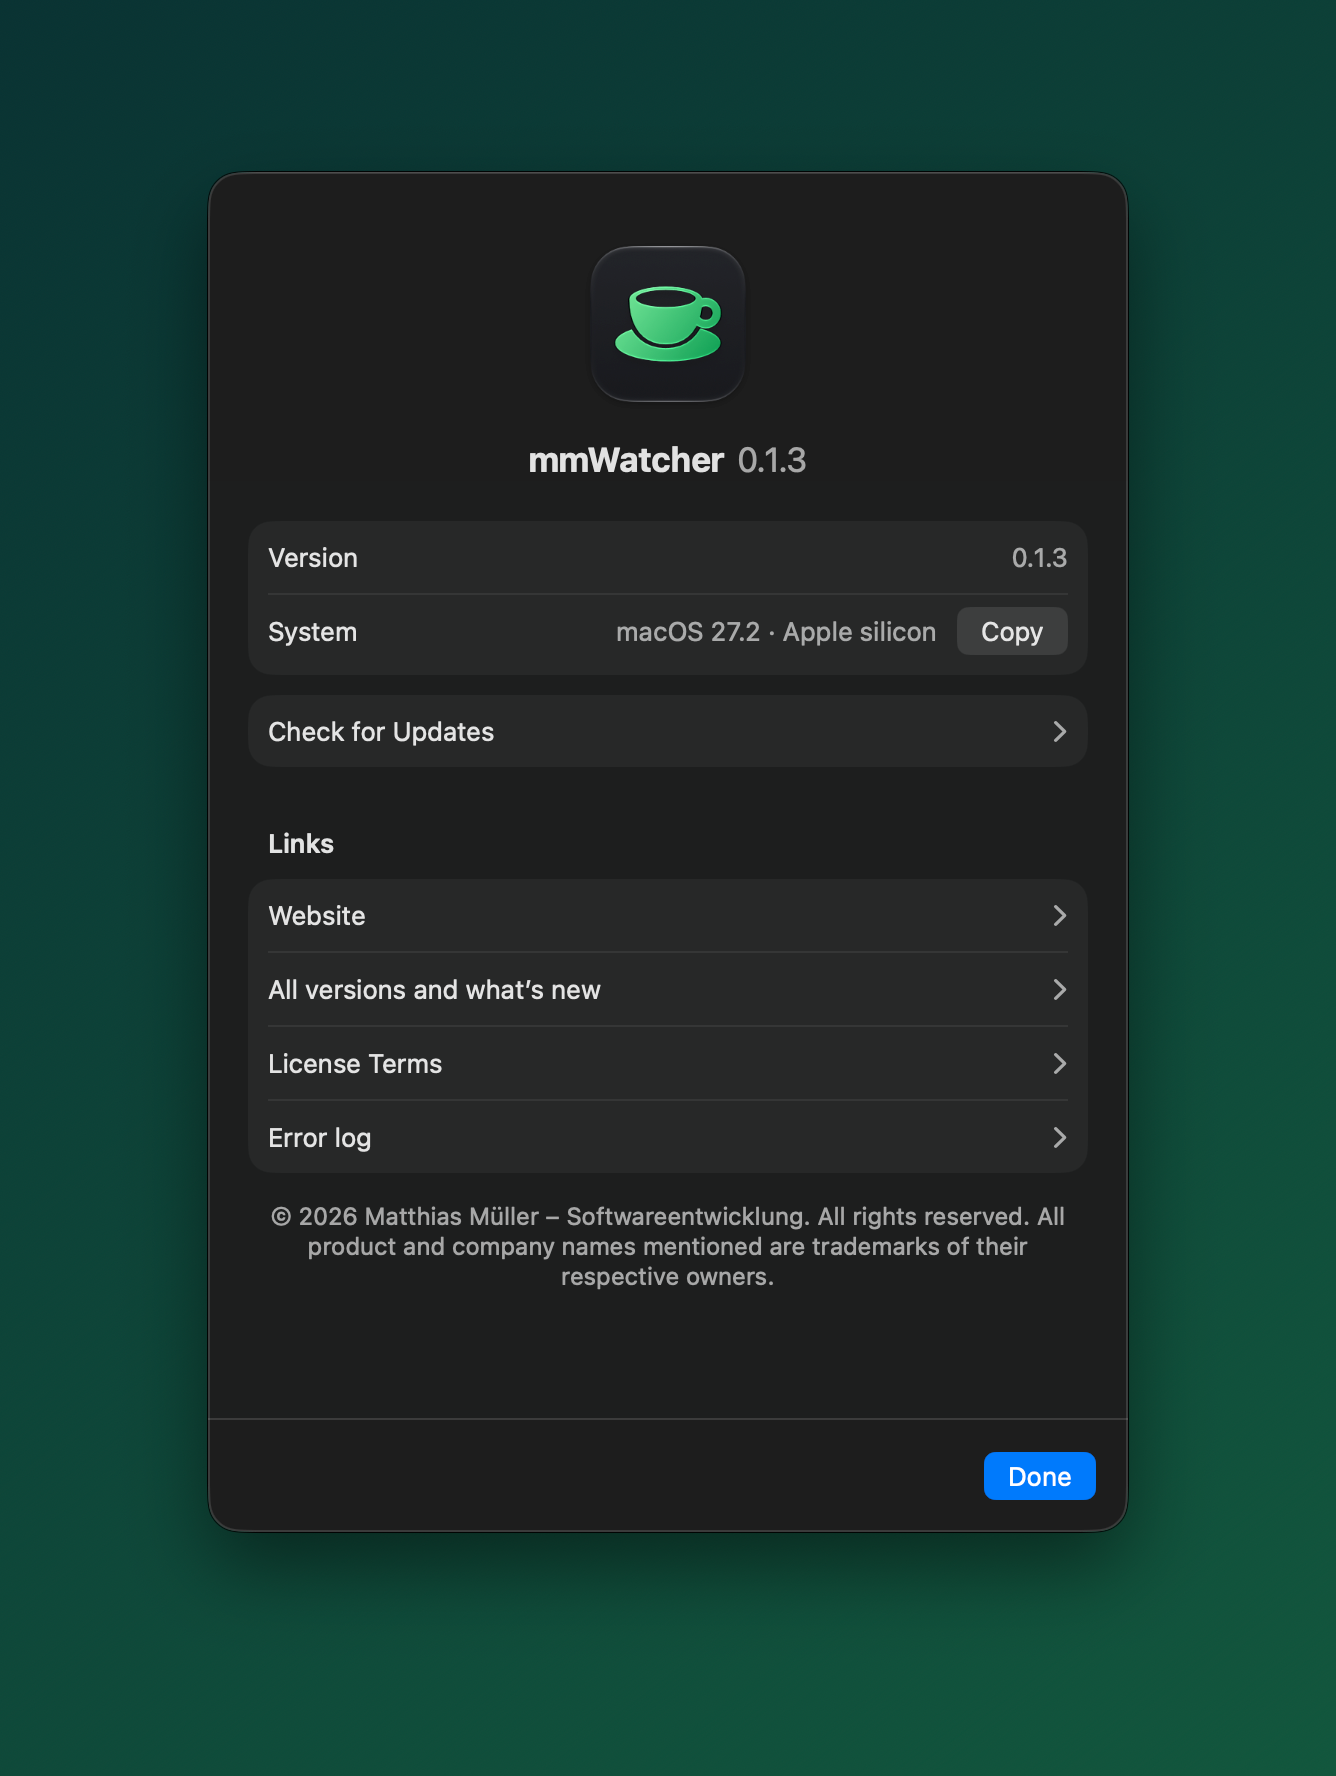
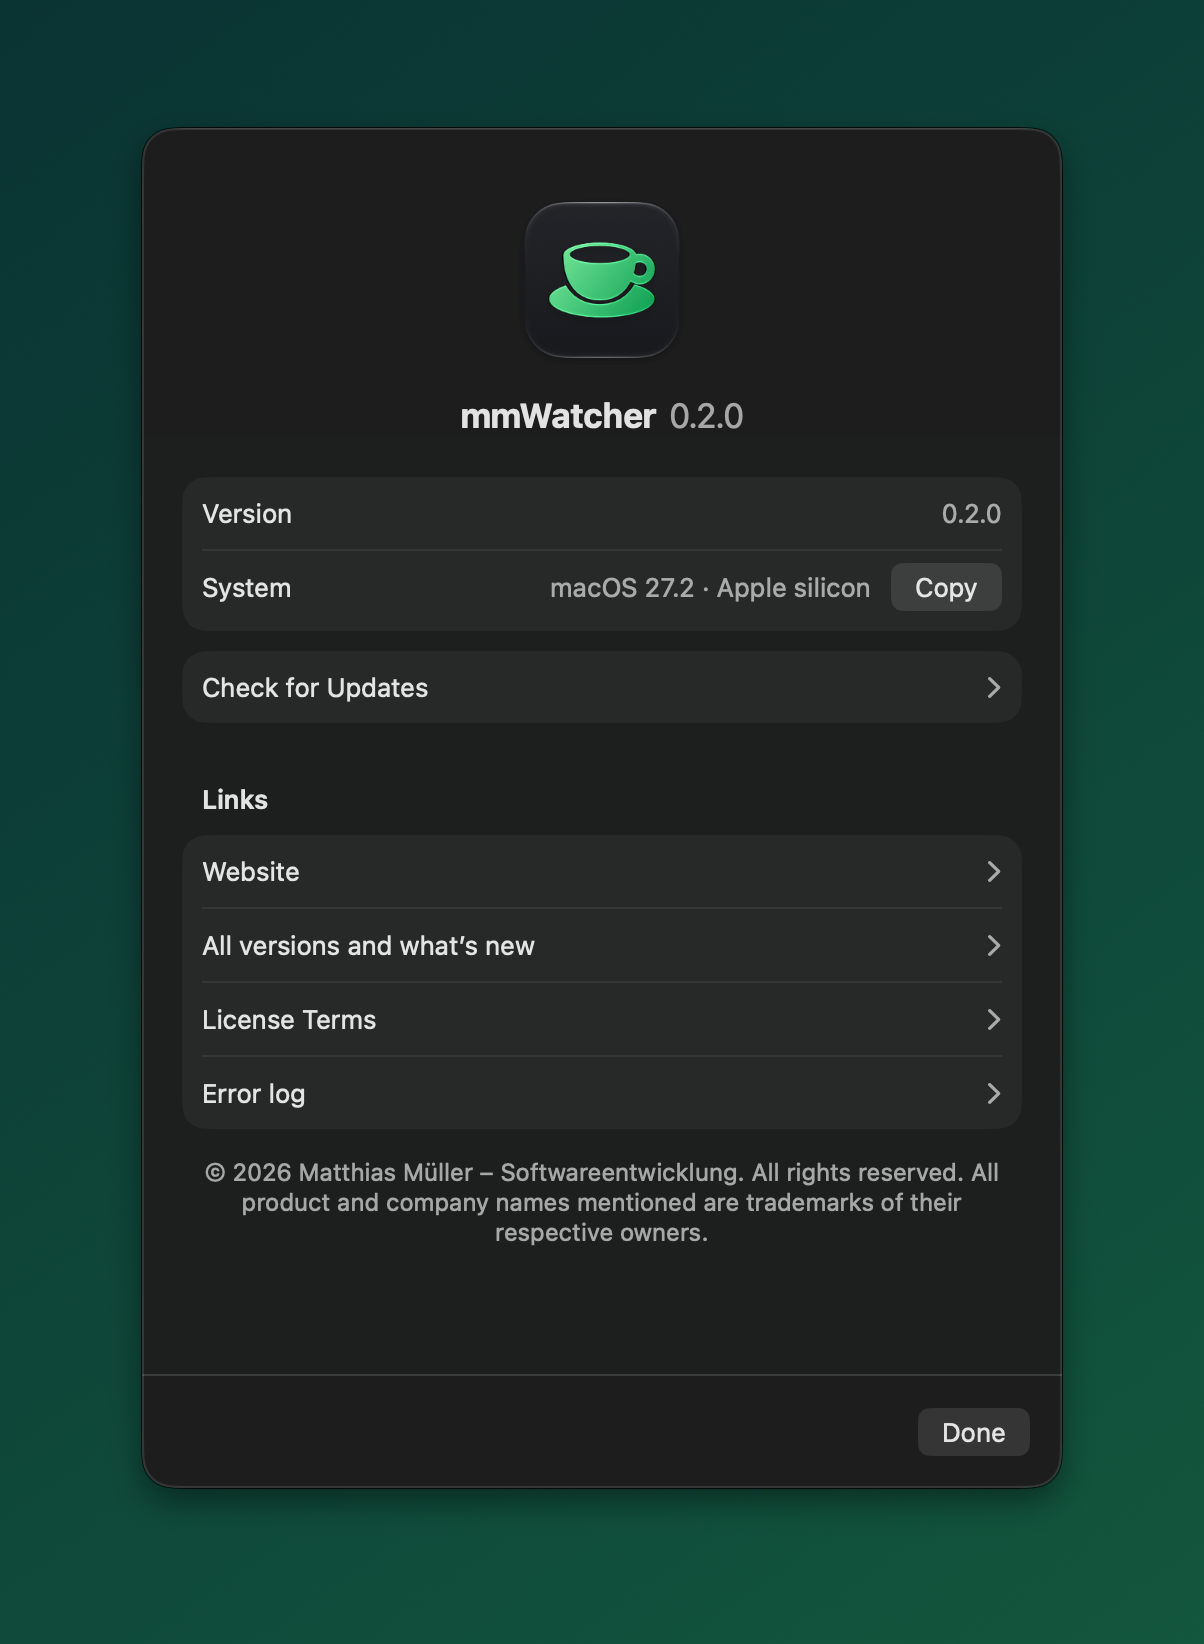
README und Bilder für 0.2.0: signiert und von Apple beglaubigt

Changed region(s): [[0.0922, 0.062, 0.8912, 0.9307], [0.3688, 0.2482, 0.6146, 0.2792]]

diff --git a/README.md b/README.md
@@ -21,7 +21,7 @@
 - **Nur Menüleiste:** Ein Klick öffnet die Einstellungen, ein Rechtsklick schaltet Wachmodus und Netzwerksperre ein und aus. Das Symbol ist wählbar und lässt sich ausblenden.
 - **Start bei der Anmeldung** und nach jedem Neustart.
 - **Erscheinungsbild** wählbar: Automatisch (wie das System), Hell oder Dunkel.
-- **Automatische Updates** nach Bestätigung, **Deutsch, Englisch, Französisch, Italienisch und Spanisch**, Liquid Glass ab macOS 26.
+- **Signiert und von Apple beglaubigt**, **automatische Updates** nach Bestätigung, **Deutsch, Englisch, Französisch, Italienisch und Spanisch**, Liquid Glass ab macOS 26.
 
 <picture>
   <source media="(prefers-color-scheme: dark)" srcset="images/de/menubar-dark.png">
@@ -55,7 +55,7 @@
 
 1. Unter [Releases](../../releases/latest) die Datei `mmWatcher-<Version>.dmg` herunterladen.
 2. DMG öffnen und mmWatcher in den Ordner „Programme“ ziehen.
-3. Beim ersten Start fragt macOS nach einer Freigabe: Systemeinstellungen › Datenschutz & Sicherheit › „Trotzdem öffnen“. Details stehen in der Anleitung in der DMG.
+3. mmWatcher per Doppelklick öffnen – die App ist mit einem Apple-Entwicklerzertifikat signiert und von Apple beglaubigt (notarisiert), es erscheint keine Sicherheitsabfrage.
 
 Danach aktualisiert sich mmWatcher selbst: Die App sucht täglich nach neuen Versionen und installiert sie nach Bestätigung (Einstellungen › Allgemein › „Jetzt suchen …“).
 
@@ -88,7 +88,7 @@ mmWatcher keeps your Mac awake permanently – and, if you like, blocks the netw
 - **Menu bar only:** a click opens the settings, a right-click switches awake mode and network lock on and off. Choose the icon or hide it.
 - **Launch at login** and after every restart.
 - **Appearance** of your choice: Automatic (like the system), Light or Dark.
-- **Automatic updates** once you confirm, **English, German, French, Italian and Spanish**, Liquid Glass on macOS 26 and later.
+- **Signed and notarized by Apple**, **automatic updates** once you confirm, **English, German, French, Italian and Spanish**, Liquid Glass on macOS 26 and later.
 
 <p align="center">
   <picture>
@@ -115,7 +115,7 @@ mmWatcher keeps your Mac awake permanently – and, if you like, blocks the netw
 
 1. Download `mmWatcher-<version>.dmg` from [Releases](../../releases/latest).
 2. Open the disk image and drag mmWatcher to the Applications folder.
-3. On first launch macOS asks for your approval: System Settings › Privacy & Security › “Open Anyway”. The guide inside the disk image has the details (in German).
+3. Double-click mmWatcher – the app is signed with an Apple developer certificate and notarized by Apple, so macOS opens it without any warning.
 
 After that mmWatcher updates itself: it checks for new versions daily and installs them once you confirm (Settings › General › “Check Now…”).
 
